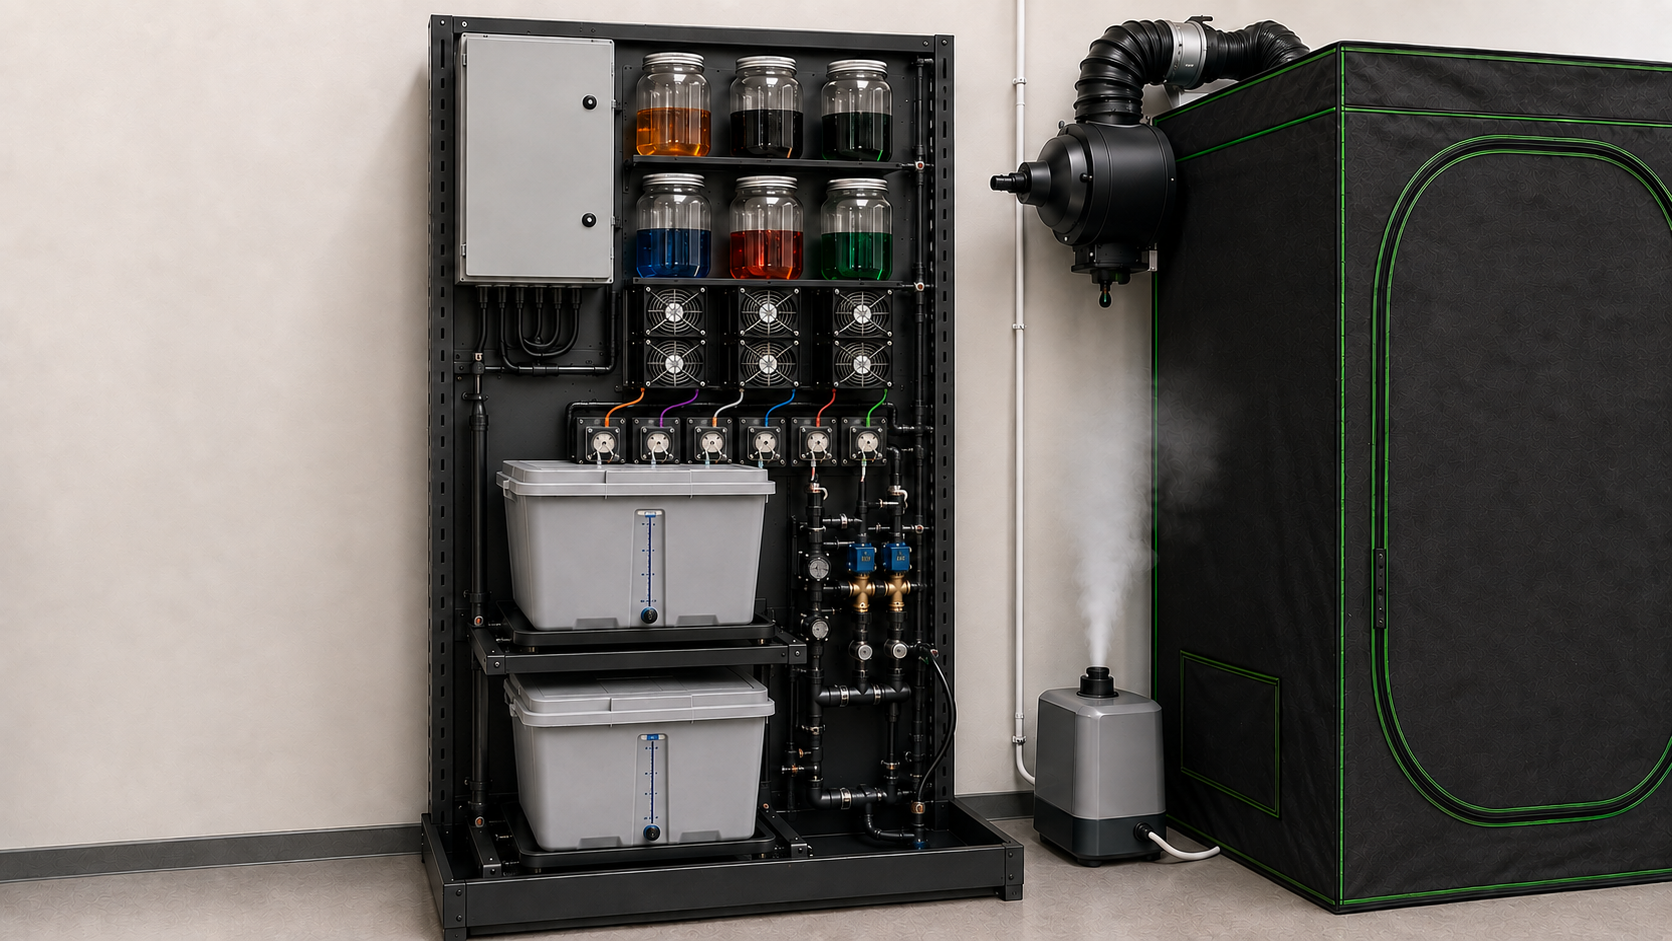
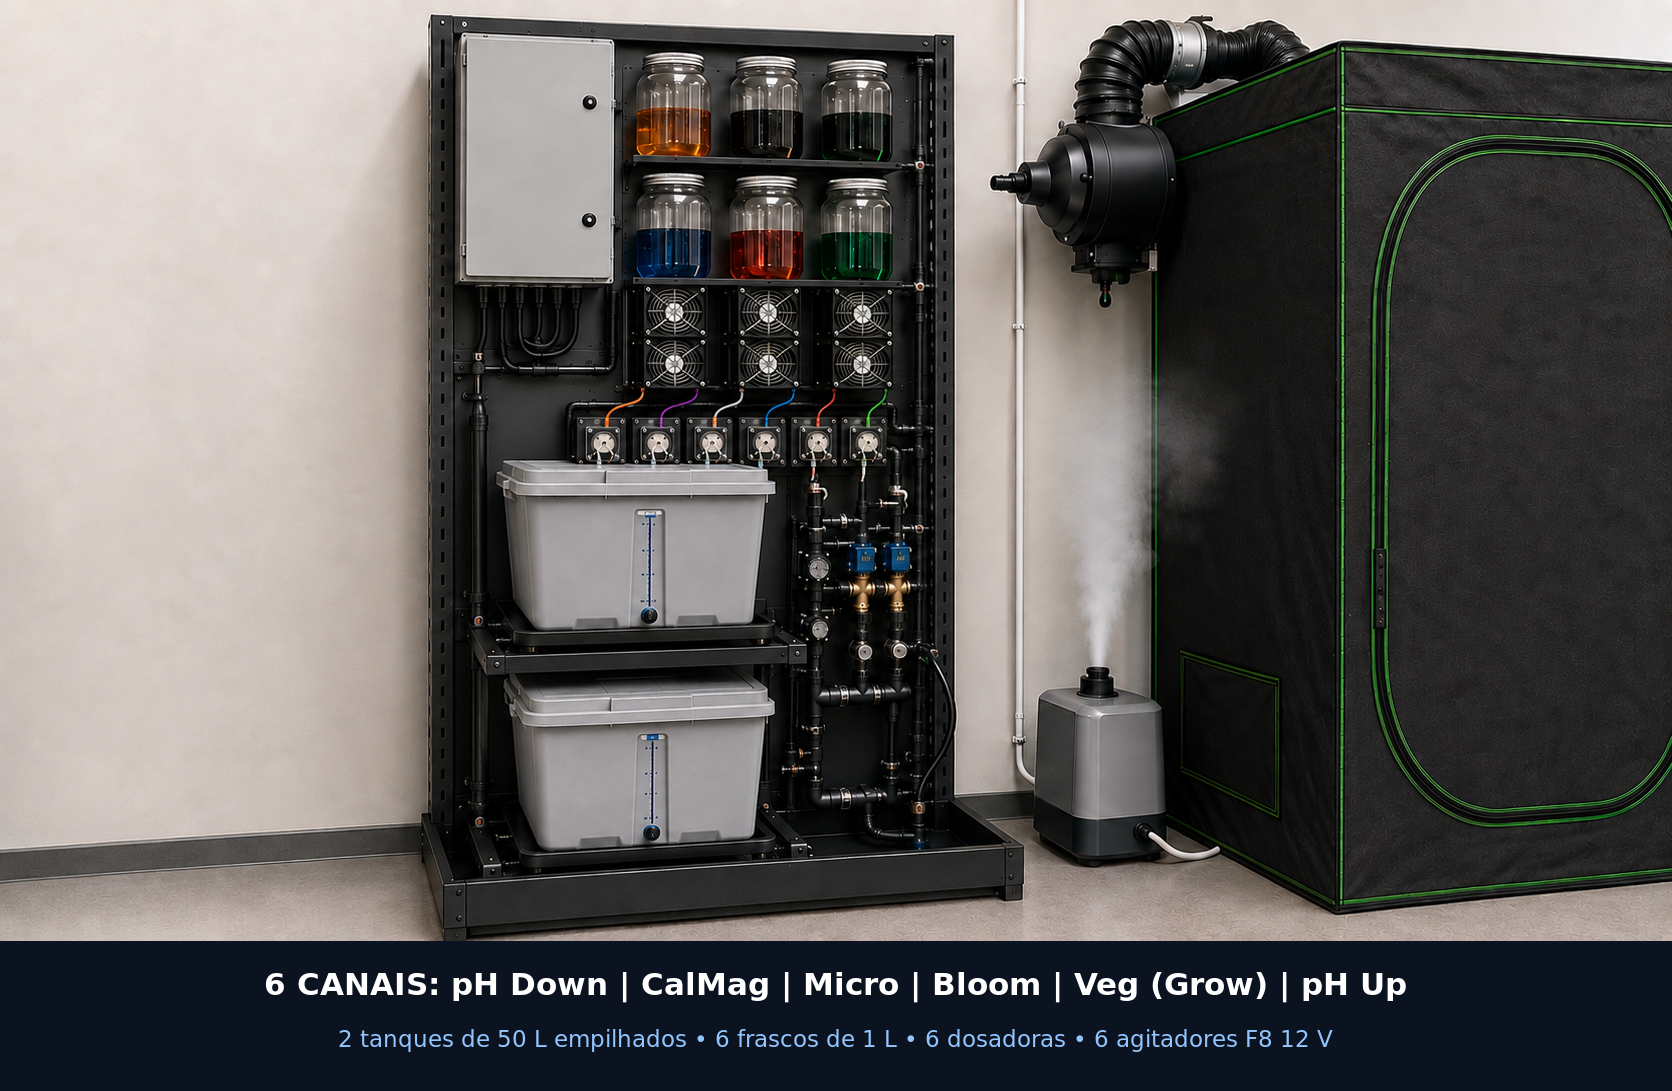
fix(imagens): rotula canais químicos e fronteira EKAZA

diff --git a/docs/images/realistic/README.md b/docs/images/realistic/README.md
@@ -4,6 +4,11 @@ Estas imagens foram geradas em PNG e validadas byte a byte em 2026-08-23. O
 portão de qualidade rejeita assinatura, CRC, dados comprimidos ou dimensões
 inválidas e também proíbe novas referências a WebP nesta pasta.
 
+As três vistas principais receberam uma faixa inferior renderizada de forma
+determinística. Ela fixa os nomes `pH Down`, `CalMag`, `Micro`, `Bloom`,
+`Veg (Grow)` e `pH Up`, as quantidades do banco de agitação e a fronteira da
+iluminação remota; essa faixa prevalece sobre qualquer microtexto ilustrativo.
+
 | Arquivo | Uso | O que deve aparecer |
 |---|---|---|
 | `01_ESTACAO_COMPLETA_REALISTA.png` | fotografia conceitual do sistema pronto | seis frascos, seis agitadores, seis dosadoras, dois tanques de 50 L empilhados, manifold, tenda, exaustor e umidificador |
@@ -44,7 +49,8 @@ fabricar ou montar, prevalecem, nesta ordem:
 - rótulos e microdetalhes gerados não definem tensão, MPN ou pinagem;
 - formas dos tanques são ilustrativas até medir os recipientes adquiridos;
 - nenhum desenho autoriza ligação em 127 V, compra em lote ou fabricação;
-- iluminação foi deliberadamente omitida e não integra o sistema.
+- nenhuma carga de iluminação integra o rack; somente tomadas EKAZA/Tuya são
+  acessadas logicamente pelo hub, conforme ADR 0008.
 - fotos reais substituirão estes conceitos depois do protótipo, HIL e piloto
   supervisionado somente com água.
 

diff --git a/README.md b/README.md
@@ -119,6 +119,10 @@ As [vistas realistas e suas limitações](docs/images/realistic/README.md)
 mostram a aparência pretendida. Elas não substituem desenhos cotados, P&ID,
 unifilar ou arquivos de fabricação.
 
+Galeria validada: [estação completa](docs/images/realistic/01_ESTACAO_COMPLETA_REALISTA.png),
+[conjunto técnico aberto](docs/images/realistic/02_VISTA_TECNICA_CONJUNTO_ABERTO.png)
+e [quadro de controle aberto](docs/images/realistic/03_QUADRO_CONTROLE_ABERTO_REALISTA.png).
+
 O [caderno multidisciplinar Rev A](docs/hardware/rev-a/CADERNO_PRANCHAS.md)
 reúne implantação, planta baixa, elevação, projeto hidráulico, projeto elétrico
 e rotas de instalações da disposição vertical compacta.
